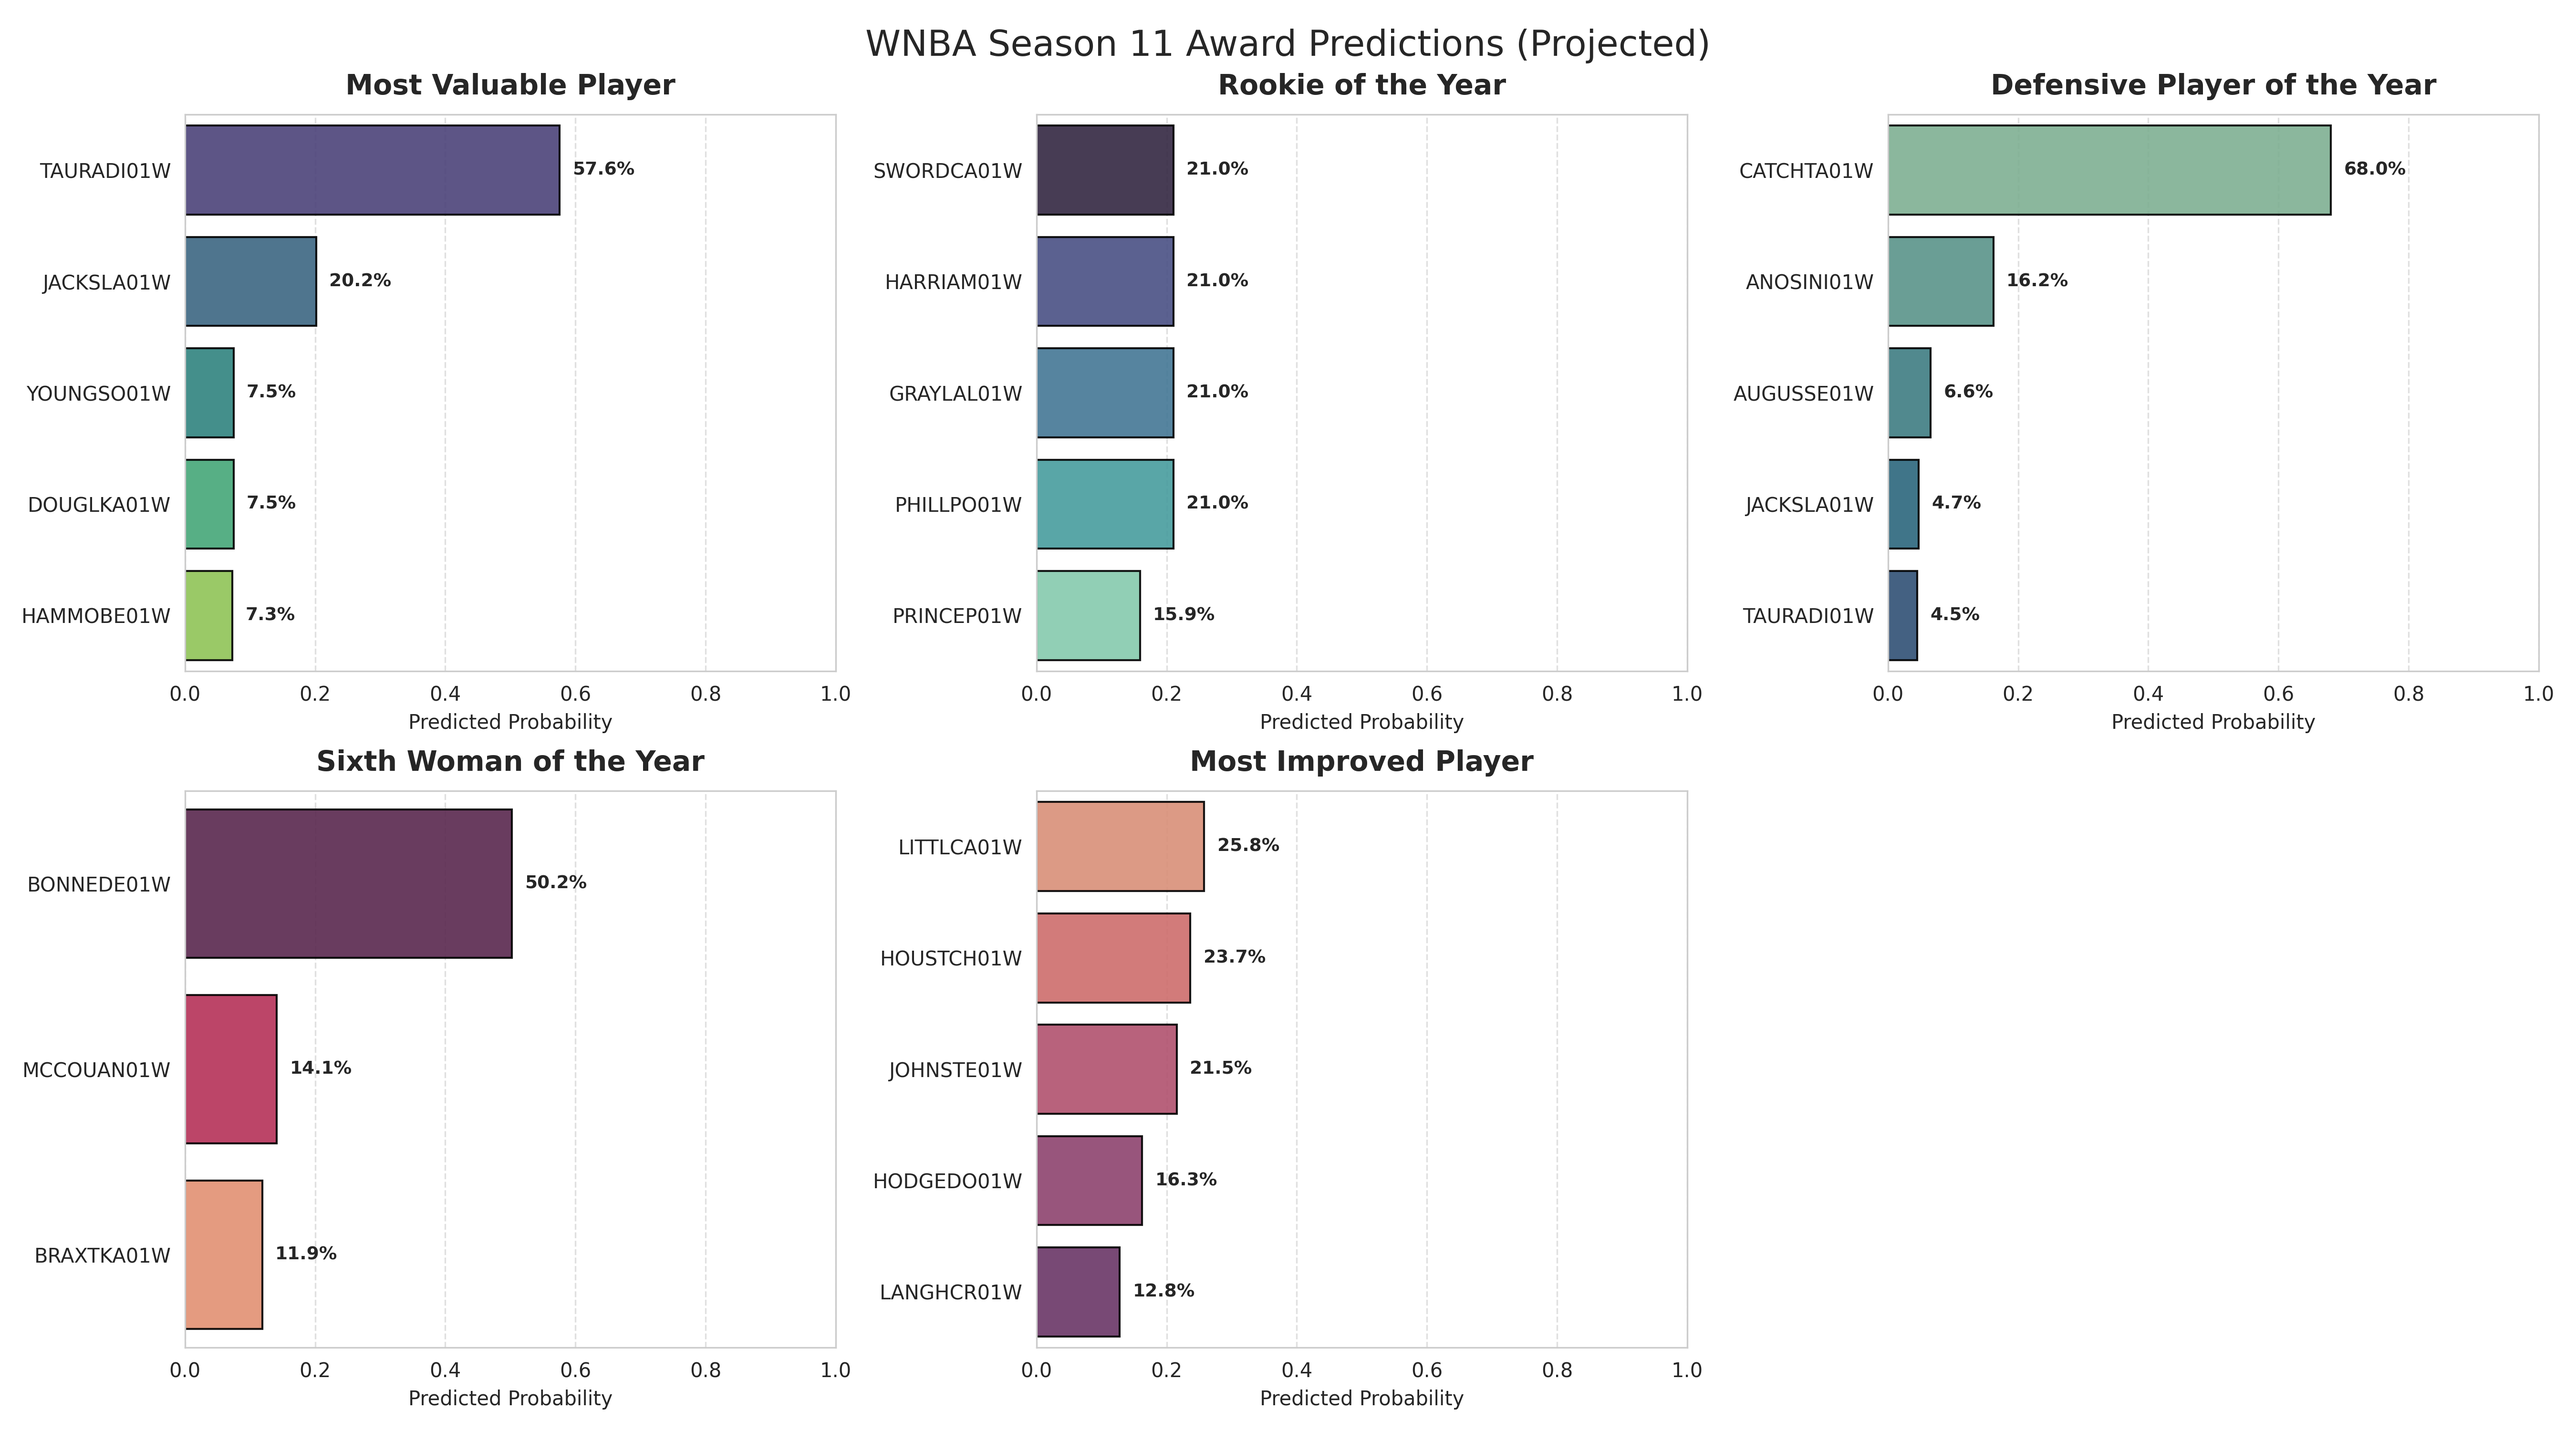
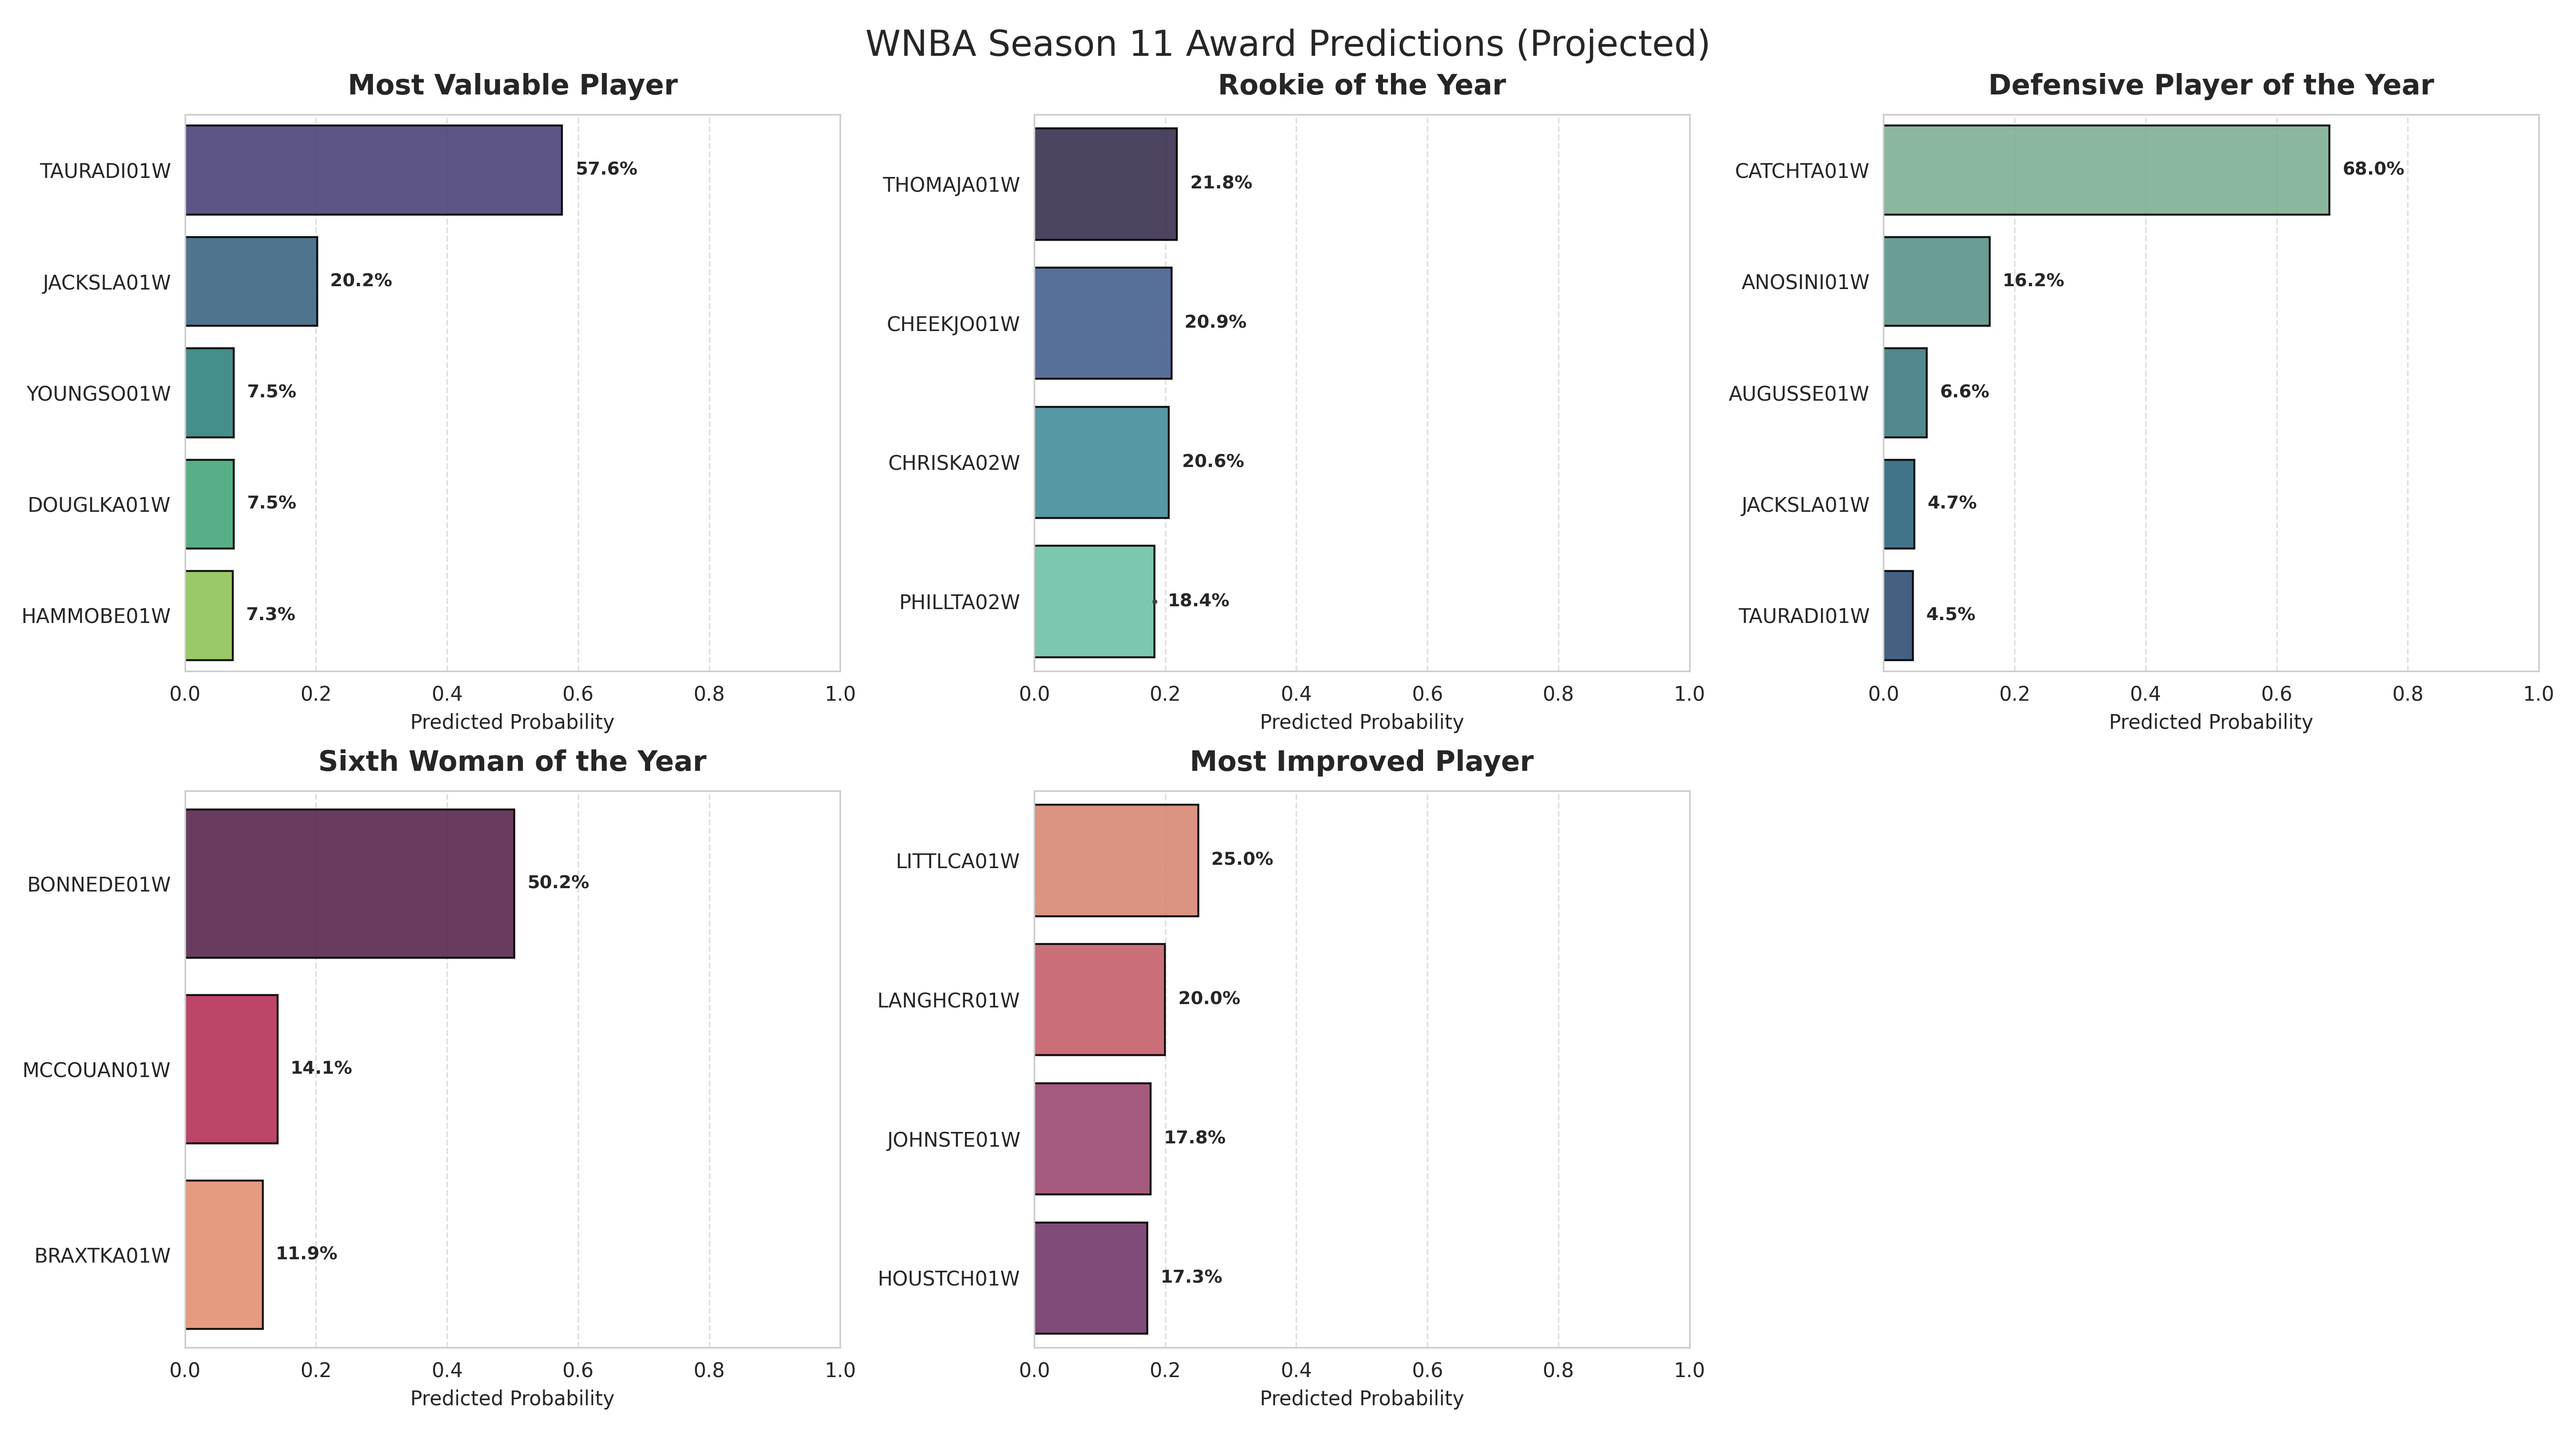
It seems to be working

diff --git a/predict_awards.py b/predict_awards.py
@@ -11,7 +11,7 @@ from xgboost import XGBRanker
 PREDICTION_YEAR = 11
 LAST_TRAIN_YEAR = 10
 
-# Setup visual (Estilo Seaborn)
+# Setup visual
 sns.set_style("whitegrid")
 output_dir = "results/predictions"
 plot_dir = "results/plots"
@@ -19,11 +19,11 @@ os.makedirs(output_dir, exist_ok=True)
 os.makedirs(plot_dir, exist_ok=True)
 
 print(f"========================================================")
-print(f"AWARD PREDICTIONS (REVISED STRATEGY) - SEASON {PREDICTION_YEAR}")
+print(f"AWARD PREDICTIONS (FINAL FIX) - SEASON {PREDICTION_YEAR}")
 print(f"========================================================")
 
 # =========================================================
-# 1. CARREGAR DADOS E NOMES REAIS
+# 1. CARREGAR DADOS
 # =========================================================
 data_path = "data/cleaned/full_dataset_prepared.csv"
 rankings_path = f"results/predictions/season_{PREDICTION_YEAR}_rankings.csv"
@@ -37,26 +37,21 @@ df = pd.read_csv(data_path)
 awards_df = pd.read_csv(awards_path)
 players_df = pd.read_csv(players_path)
 
-# --- Normalizar nome da Conferência ---
+# Normalização de Nomes e Colunas
 if 'confID' not in df.columns:
     col_map = {'lgID_x': 'conference', 'lgID': 'conference', 'confID': 'conference'}
     df.rename(columns={k: v for k, v in col_map.items() if k in df.columns}, inplace=True)
 else:
     df.rename(columns={'confID': 'conference'}, inplace=True)
+df['conference'] = df['conference'].fillna('Unknown')
 
-if 'conference' not in df.columns:
-    df['conference'] = 'Unknown'
-else:
-    df['conference'] = df['conference'].fillna('Unknown')
-
-# Normalizar IDs
 df['playerID'] = df['playerID'].astype(str).str.upper()
 awards_df['playerID'] = awards_df['playerID'].astype(str).str.upper()
 if 'bioID' in players_df.columns:
     players_df.rename(columns={'bioID': 'playerID'}, inplace=True)
 players_df['playerID'] = players_df['playerID'].astype(str).str.upper()
 
-# Criar coluna "Player Name"
+# Nome Completo
 if 'firstName' in players_df.columns and 'lastName' in players_df.columns:
     players_df['fullName'] = players_df['firstName'] + " " + players_df['lastName']
 else:
@@ -65,7 +60,7 @@ else:
 df = df.merge(players_df[['playerID', 'fullName']], on='playerID', how='left')
 df['fullName'] = df['fullName'].fillna(df['playerID'])
 
-# Carregar Rankings Previstos da S11
+# Carregar Rankings S11
 pred_win_map = {}
 pred_rank_map = {}
 if os.path.exists(rankings_path):
@@ -81,7 +76,7 @@ if os.path.exists(rankings_path):
     pred_rank_map = dict(zip(rankings_df.tmID, rankings_df.conf_rank))
 
 # =========================================================
-# 2. FEATURE ENGINEERING AVANÇADA
+# 2. FEATURE ENGINEERING
 # =========================================================
 
 metrics = ['points', 'rebounds', 'assists', 'steals', 'blocks', 'turnovers']
@@ -121,6 +116,10 @@ s9_stats = df[df['year'] == (LAST_TRAIN_YEAR - 1)][['playerID', 'efficiency_pg']
 s9_stats.rename(columns={'efficiency_pg': 'efficiency_pg_2yrs_ago'}, inplace=True)
 s11_proj = s11_proj.merge(s9_stats, on='playerID', how='left')
 
+# Injetar Win Pct ANTES de calcular stats (para ajustar rookies)
+s11_proj['win_pct'] = s11_proj['tmID'].map(pred_win_map).fillna(0.5)
+s11_proj['conf_rank'] = s11_proj['tmID'].map(pred_rank_map).fillna(3)
+
 cols_to_project = ['points_pg', 'efficiency_pg', 'rebounds_pg', 'assists_pg', 'steals_pg', 'blocks_pg']
 league_avg_s10 = df[df['year'] == LAST_TRAIN_YEAR][cols_to_project].mean()
 
@@ -128,19 +127,26 @@ for col in cols_to_project:
     prev_col = f"{col}_prev"
     s11_proj[col] = s11_proj[prev_col]
     
-    is_rookie_missing_stats = (s11_proj['experience_years'] == 0) & (s11_proj[col].isna())
-    if not s11_proj.loc[is_rookie_missing_stats].empty:
-        noise = np.random.uniform(0.7, 1.0, size=is_rookie_missing_stats.sum())
-        s11_proj.loc[is_rookie_missing_stats, col] = league_avg_s10[col] * noise
+    # --- ROOKIES: PROJEÇÃO BASEADA EM OPORTUNIDADE ---
+    is_rookie_missing = (s11_proj['experience_years'] == 0) & (s11_proj[col].isna())
     
-    is_vet_missing_stats = (s11_proj['experience_years'] > 0) & (s11_proj[col].isna())
-    if not s11_proj.loc[is_vet_missing_stats].empty:
-        s11_proj.loc[is_vet_missing_stats, col] = league_avg_s10[col] * 0.9
+    if not s11_proj.loc[is_rookie_missing].empty:
+        # Se a equipa ganha pouco (win_pct baixo), o rookie joga mais (Factor > 1.0)
+        # Se a equipa ganha muito (win_pct alto), o rookie joga menos (Factor < 1.0)
+        opp_factor = 1.6 - (s11_proj.loc[is_rookie_missing, 'win_pct'] * 1.0)
+        
+        # Ruído aleatório (0.8 a 1.2)
+        noise = np.random.uniform(0.8, 1.2, size=is_rookie_missing.sum())
+        
+        # Atribuir valor: (Média da Liga * 0.6) * Oportunidade * Ruído
+        s11_proj.loc[is_rookie_missing, col] = (league_avg_s10[col] * 0.6) * opp_factor * noise
+    
+    # VETERANOS SEM DADOS
+    is_vet_missing = (s11_proj['experience_years'] > 0) & (s11_proj[col].isna())
+    if not s11_proj.loc[is_vet_missing].empty:
+        s11_proj.loc[is_vet_missing, col] = league_avg_s10[col] * 0.9
 
 s11_proj['starter_ratio'] = s11_proj['starter_ratio_prev'].fillna(0.2)
-s11_proj['win_pct'] = s11_proj['tmID'].map(pred_win_map).fillna(0.5)
-s11_proj['conf_rank'] = s11_proj['tmID'].map(pred_rank_map).fillna(3)
-
 team_max_eff = s11_proj.groupby('tmID')['efficiency_pg'].transform('max')
 s11_proj['is_best_player'] = (s11_proj['efficiency_pg'] == team_max_eff).astype(int)
 s11_proj['improvement_trend'] = s11_proj['efficiency_pg'] - s11_proj['efficiency_pg_2yrs_ago'].fillna(s11_proj['efficiency_pg'] * 0.8)
@@ -153,15 +159,13 @@ train_df = df[df['year'] <= LAST_TRAIN_YEAR].copy()
 
 train_team_stats = train_df.groupby(['year', 'tmID', 'conference'])['win_pct'].mean().reset_index()
 train_team_stats['conf_rank_calc'] = train_team_stats.groupby(['year', 'conference'])['win_pct'].rank(ascending=False, method='min')
-
 train_df = train_df.merge(train_team_stats[['year', 'tmID', 'conference', 'conf_rank_calc']], on=['year', 'tmID', 'conference'], how='left')
 train_df['conf_rank'] = train_df['conf_rank_calc'].fillna(4)
 train_df.drop(columns=['conf_rank_calc'], inplace=True)
 
 if 'efficiency_pg' not in train_df.columns:
      train_df['efficiency'] = (train_df['points'].fillna(0) + train_df['rebounds'].fillna(0) + 
-                               train_df['assists'].fillna(0) + train_df['steals'].fillna(0) + 
-                               train_df['blocks'].fillna(0) - train_df['turnovers'].fillna(0))
+                               train_df['assists'].fillna(0) + train_df['steals'].fillna(0) - train_df['turnovers'].fillna(0))
      train_df['efficiency_pg'] = train_df['efficiency'] / train_df['GP'].replace(0, 1).fillna(1)
 
 train_max_eff = train_df.groupby(['year', 'tmID'])['efficiency_pg'].transform('max')
@@ -169,7 +173,7 @@ train_df['is_best_player'] = (train_df['efficiency_pg'] == train_max_eff).astype
 train_df['improvement_trend'] = train_df.groupby('playerID')['efficiency_pg'].diff().fillna(0)
 
 # =========================================================
-# 5. PREVISÃO E PLOT
+# 5. FUNÇÃO DE PREVISÃO COM DESEMPATE
 # =========================================================
 
 def get_probs(scores):
@@ -190,12 +194,10 @@ def run_race(award_name, features, filters=None):
     X_train = train_set[features].fillna(0)
     y_train = train_set[target]
     
-    if len(X_train) == 0 or y_train.sum() == 0:
-        return None
+    if len(X_train) == 0 or y_train.sum() == 0: return None
 
     model = XGBRanker(objective='rank:pairwise', n_estimators=150, learning_rate=0.05, max_depth=4, random_state=42)
     groups = [g for g in train_set.groupby('year').size().to_list() if g > 0]
-    
     if not groups: return None
 
     model.fit(X_train, y_train, group=groups, verbose=False)
@@ -204,8 +206,21 @@ def run_race(award_name, features, filters=None):
         
     X_test = test_set[features].fillna(0)
     scores = model.predict(X_test)
-    
     test_set['raw_score'] = scores
+    
+    # --- DESEMPATE (TIE-BREAKER) ---
+    # Se os scores do modelo forem muito parecidos (o que causa os 20% iguais),
+    # adicionamos uma fração das stats projetadas ao score para forçar o desempate.
+    if award_name == 'Rookie of the Year':
+        # Usa Efficiency e Points como desempate
+        tie_breaker = (test_set['efficiency_pg'] * 0.1) + (test_set['points_pg'] * 0.1)
+        test_set['raw_score'] += tie_breaker
+    
+    elif award_name == 'Most Improved Player':
+        # Usa a Improvement Trend como desempate
+        test_set['raw_score'] += test_set['improvement_trend'] * 0.2
+
+    # Normalizar e Selecionar Top 5
     results = test_set.sort_values('raw_score', ascending=False).head(5).copy()
     results['probability'] = get_probs(results['raw_score'].values)
     
@@ -219,7 +234,9 @@ run_race('Defensive Player of the Year', ['steals_pg', 'blocks_pg', 'rebounds_pg
 run_race('Sixth Woman of the Year', ['points_pg', 'efficiency_pg', 'win_pct', 'starter_ratio'], lambda x: x['starter_ratio'] < 0.6)
 run_race('Most Improved Player', ['improvement_trend', 'points_pg', 'efficiency_pg'], lambda x: x['experience_years'] > 1)
 
-# Gerar Visualizações e CSV
+# =========================================================
+# 6. EXPORTAR E VISUALIZAR
+# =========================================================
 if race_results:
     fig, axes = plt.subplots(2, 3, figsize=(18, 10))
     axes = axes.flatten()
@@ -227,18 +244,10 @@ if race_results:
 
     for i, (award, df_res) in enumerate(race_results.items()):
         ax = axes[i]
-        
-        # CORREÇÃO SEABORN: hue=y, legend=False
         sns.barplot(
-            data=df_res,
-            x='probability',
-            y='fullName',
-            hue='fullName',  # Evita aviso de deprecation
-            ax=ax,
-            palette=palettes[i % len(palettes)],
-            edgecolor='black',
-            alpha=0.9,
-            legend=False
+            data=df_res, x='probability', y='fullName', hue='fullName',
+            ax=ax, palette=palettes[i % len(palettes)],
+            edgecolor='black', alpha=0.9, legend=False
         )
         
         ax.set_title(award, fontsize=14, fontweight='bold', pad=10)
@@ -253,8 +262,7 @@ if race_results:
                     f'{width:.1%}', va='center', fontsize=9, fontweight='bold')
 
     if len(race_results) < 6:
-        for j in range(len(race_results), 6):
-            fig.delaxes(axes[j])
+        for j in range(len(race_results), 6): fig.delaxes(axes[j])
 
     plt.tight_layout()
     plt.subplots_adjust(top=0.92)
@@ -264,8 +272,7 @@ if race_results:
     plt.savefig(plot_path, dpi=300)
     print(f"\n--> Visualizations saved to: {plot_path}")
 
-    # Guardar CSV (CORREÇÃO DE ERRO ATTRIBUTE)
-    # Concatenar diretamente, pois 'probability' já é float
+    # CSV
     results_for_csv = []
     for award, df_res in race_results.items():
         results_for_csv.append(df_res.assign(Award=award))
@@ -274,6 +281,5 @@ if race_results:
     csv_path = f"{output_dir}/season_{PREDICTION_YEAR}_awards_detailed.csv"
     all_preds.to_csv(csv_path, index=False)
     print(f"--> Detailed predictions saved to: {csv_path}")
-
 else:
     print("No predictions generated.")
